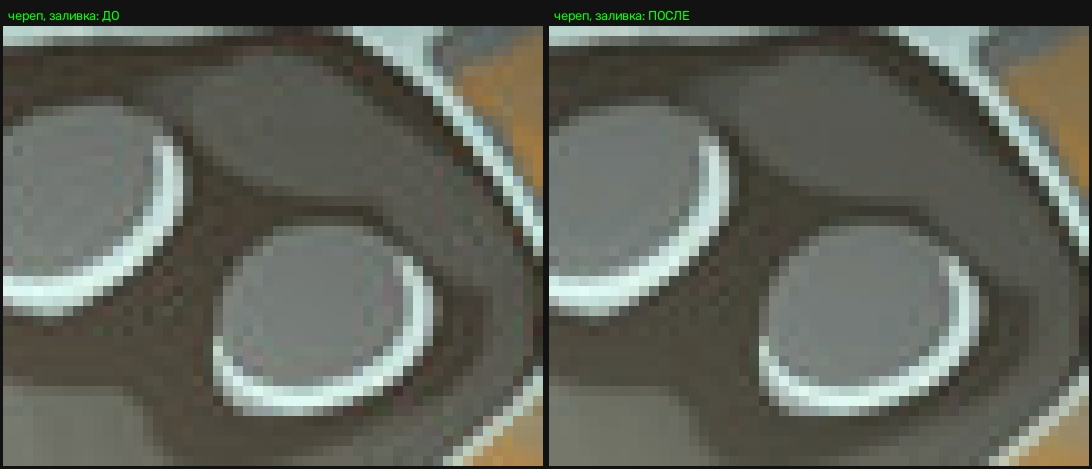
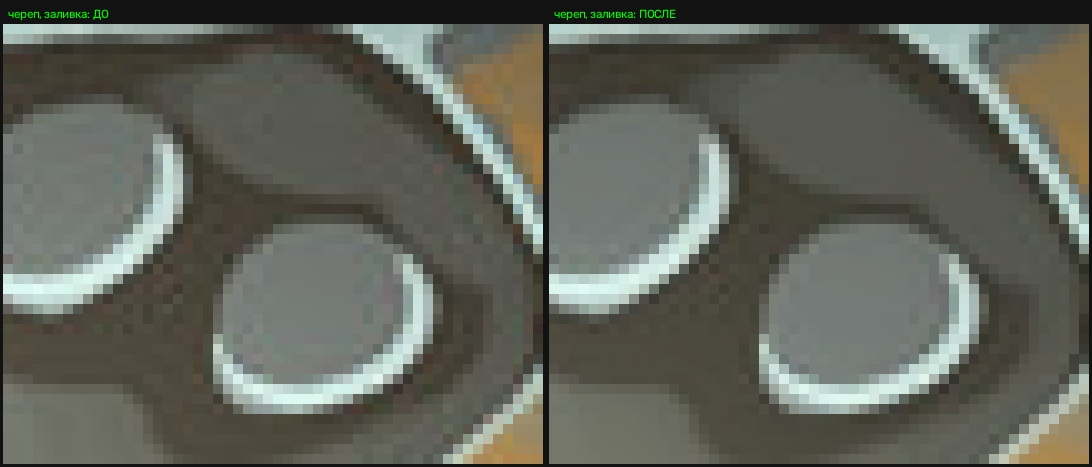
clean_icon: pattern-aware flat cleaning (std mask + median) — removes noise on fills, keeps marble/pattern

diff --git a/tools/clean_icon.py b/tools/clean_icon.py
@@ -58,10 +58,10 @@ def edge_band(L: np.ndarray, lo: float = 11.0, hi: float = 30.0) -> np.ndarray:
 PRESETS = {
     # detail — сколько исходной фактуры возвращается поверх чистки (0..1):
     # в ровных заливках возвращается мало, у деталей — больше.
-    "soft":     dict(hL=8.0, hC=4.0, t=7, s=15, soft=0.0, detail=0.95),
-    "normal":   dict(hL=14.0, hC=5.0, t=7, s=15, soft=0.0, detail=0.90),
-    "strong":   dict(hL=20.0, hC=6.0, t=7, s=15, soft=0.0, detail=0.75),
-    "max":      dict(hL=28.0, hC=8.0, t=9, s=21, soft=0.0, detail=0.55),
+    "soft":     dict(hL=8.0, hC=4.0, t=7, s=15, soft=0.0, detail=0.95, flat_T=10.0),
+    "normal":   dict(hL=14.0, hC=5.0, t=7, s=15, soft=0.0, detail=0.90, flat_T=12.0),
+    "strong":   dict(hL=20.0, hC=6.0, t=7, s=15, soft=0.0, detail=0.75, flat_T=14.0),
+    "max":      dict(hL=28.0, hC=8.0, t=9, s=21, soft=0.0, detail=0.55, flat_T=16.0),
     # частотный способ (альтернатива)
     "freq":     dict(T=(6.0, 4.0, 4.0), soft=0.0, detail=0.0),
 }
@@ -212,6 +212,37 @@ def restore_detail(src: np.ndarray, cleaned: np.ndarray,
     return cv2.cvtColor(np.clip(out, 0, 255).astype(np.uint8), cv2.COLOR_LAB2BGR)
 
 
+def _std9(a: np.ndarray, k: int = 9) -> np.ndarray:
+    """Локальный разброс яркости в окне k×k — «сколько тут вообще есть структуры»."""
+    m = cv2.blur(a, (k, k))
+    m2 = cv2.blur(a * a, (k, k))
+    return np.sqrt(np.maximum(m2 - m * m, 0.0))
+
+
+def clean_flats(img: np.ndarray, cleaned: np.ndarray, T: float = 12.0,
+                k: int = 9, msize: int = 5, iters: int = 2,
+                feather: float = 2.0) -> np.ndarray:
+    """Добить остаточный шум ТАМ, ГДЕ НЕТ УЗОРА.
+
+    Заливки, фон и мягкие тени от узора отличаются локальным разбросом яркости
+    (std в окне 9×9): у мраморности, штриховки и бликов он большой, у ровного
+    цвета — маленький. Где разброс ниже T, дополнительно прогоняем медиану:
+    она снимает остаточную крупу и блочность 8×8, но не трогает градиент —
+    низкие частоты (сама тень) остаются на месте. Маска мягкая (`feather`),
+    поэтому стыка между зонами не видно.
+    """
+    if T <= 0:
+        return cleaned
+    s = _std9(cv2.cvtColor(img, cv2.COLOR_BGR2LAB)[..., 0].astype(np.float32), k)
+    m = np.clip((T - s) / max(T * 0.45, 1e-3), 0.0, 1.0)
+    m = cv2.GaussianBlur(m, (0, 0), feather)[..., None]
+    flat = cleaned
+    for _ in range(max(1, iters)):
+        flat = cv2.medianBlur(flat, msize)
+    return np.clip(flat.astype(np.float32) * m + cleaned.astype(np.float32) * (1 - m),
+                   0, 255).astype(np.uint8)
+
+
 def clean_fill(img: np.ndarray, preset: str = "normal") -> np.ndarray:
     """NLM (non-local means): пиксель заменяется средним по похожим на его
     окрестность фрагментам всего кадра, с весом по схожести. Шум на заливке
@@ -230,6 +261,8 @@ def clean_fill(img: np.ndarray, preset: str = "normal") -> np.ndarray:
                                            int(p["t"]), int(p["s"])))
     res = cv2.cvtColor(np.stack(ch, -1), cv2.COLOR_LAB2BGR)
     res = restore_detail(img, res, float(p.get("detail", 0.0)))
+    res = clean_flats(img, res, T=float(p.get("flat_T", 12.0)),
+                      msize=int(p.get("flat_med", 5)))
     return soften_edges(res, float(p.get("soft", 0.0)))
 
 
@@ -367,6 +400,8 @@ def main() -> int:
                     help="смягчение кромок 0..1 (0 — жёсткие)")
     ap.add_argument("--detail", type=float, default=None,
                     help="возврат исходной фактуры 0..1 (0 — только чистка)")
+    ap.add_argument("--flat-T", type=float, default=None,
+                    help="порог 'ровная зона' 0..40: больше — чистим шире (по умолчанию из пресета)")
     ap.add_argument("--hL", type=float, default=None,
                     help="сила чистки яркости 1..40 (по умолчанию из пресета)")
     ap.add_argument("--chroma", type=float, default=1.0, help="сила чистки цвета 0..2")
@@ -383,7 +418,7 @@ def main() -> int:
             raise SystemExit(f"не читается: {src}")
         if args.protect is not None or args.iters is not None \
                 or args.soft_edges is not None or args.detail is not None \
-                or args.hL is not None:
+                or args.hL is not None or args.flat_T is not None:
             p = dict(PRESETS[args.preset])
             if args.protect is not None:
                 p["dil"] = args.protect
@@ -396,6 +431,8 @@ def main() -> int:
                 p["detail"] = args.detail
             if args.hL is not None:
                 p["hL"] = args.hL
+            if args.flat_T is not None:
+                p["flat_T"] = args.flat_T
             PRESETS["_custom"] = p
             if "hL" in p or "T" in p:
                 res = clean_fill(img, "_custom")

diff --git a/tools/README.md b/tools/README.md
@@ -117,18 +117,24 @@ python3 tools/clean_icon.py in.png -o out.png --chroma 1.0 --luma 0.8
      только там, где есть средняя структура: на одиночной крапинке в пустой
      заливке вес нулевой (крупа остаётся вычищенной), а тонкая линия, ободок или
      контур возвращаются целиком.
-   Цвет возвращается в 0.45 раза слабее яркости — цветной шум заметнее всего.
+   Цвет возвращается слабее яркости — цветной шум заметнее всего.
    Сила — `--detail 0..1`.
-3. `soften_edges()` — при желании смягчает полосу кромок (`--soft-edges 0..1`).
+3. `clean_flats()` — добивает остаточный шум **только там, где нет узора**.
+   Локальный разброс яркости (std в окне 9×9) отличает мраморность, штриховку и
+   блики от ровной заливки, фона и мягкой тени. Где разброс ниже `--flat-T`,
+   дополнительно идёт медиана: она снимает остаточную крупу и блочность 8×8, но
+   не трогает низкие частоты — сам градиент тени остаётся на месте. Маска мягкая,
+   стыка между зонами не видно. Порог — `--flat-T 0..40` (0 — выключить).
+4. `soften_edges()` — при желании смягчает полосу кромок (`--soft-edges 0..1`).
 
 Режимы:
 
-| режим | hL | detail | сохранность узора (corr) |
-|---|---|---|---|
-| `soft` | 8 | 0.95 | 0.998 |
-| **`normal`** (по умолчанию) | 14 | 0.90 | **0.996** |
-| `strong` | 20 | 0.75 | 0.991 |
-| `max` | 28 | 0.55 | 0.971 |
+| режим | hL | detail | flat_T | сохранность узора (corr) |
+|---|---|---|---|---|
+| `soft` | 8 | 0.95 | 10 | 0.995 |
+| **`normal`** (по умолчанию) | 14 | 0.90 | 12 | **0.994** |
+| `strong` | 20 | 0.75 | 14 | 0.990 |
+| `max` | 28 | 0.55 | 16 | 0.971 |
 
 Движки-альтернативы: `--preset freq` (частотный), `--protect/--iters` (mean shift).
 
@@ -136,19 +142,19 @@ python3 tools/clean_icon.py in.png -o out.png --chroma 1.0 --luma 0.8
 
 | метрика | череп: до → после | зелье: до → после |
 |---|---|---|
-| сохранность узора | — → **0.996** | — → **0.994** |
-| шум на заливках | 1.29 → **0.99** | 0.73 → **0.59** |
-| шум яркости | 0.29 → 0.21 | 0.09 → 0.08 |
-| цветной шум a/b | 0.31 → 0.22 | 0.13 → 0.09 |
-| резкость контуров | 61.2 → 63.2 | 53.2 → 55.2 |
+| сохранность узора | — → **0.994** | — → **0.990** |
+| шум на заливках | 1.29 → **0.92** | 0.73 → **0.56** |
+| шум яркости | 0.29 → **0.16** | 0.09 → **0.05** |
+| цветной шум a/b | 0.31 → **0.20** | 0.13 → **0.07** |
+| резкость контуров | 61.2 → 63.8 | 53.2 → 55.2 |
 
 Подбор баланса «чистота / узор»:
 
 ```bash
 python3 tools/clean_icon.py in.png -o out.png                 # normal
-python3 tools/clean_icon.py in.png -o out.png --hL 20         # сильнее давит крупу
+python3 tools/clean_icon.py in.png -o out.png --flat-T 20     # чистить шире (сильнее)
+python3 tools/clean_icon.py in.png -o out.png --flat-T 0      # не трогать заливки отдельно
 python3 tools/clean_icon.py in.png -o out.png --detail 1.0    # фактура как есть
-python3 tools/clean_icon.py in.png -o out.png --preset max    # максимум чистоты
 ```
 
 Сравнения: `samples/two_icons_clean.jpg` (череп и зелье, ×3),
